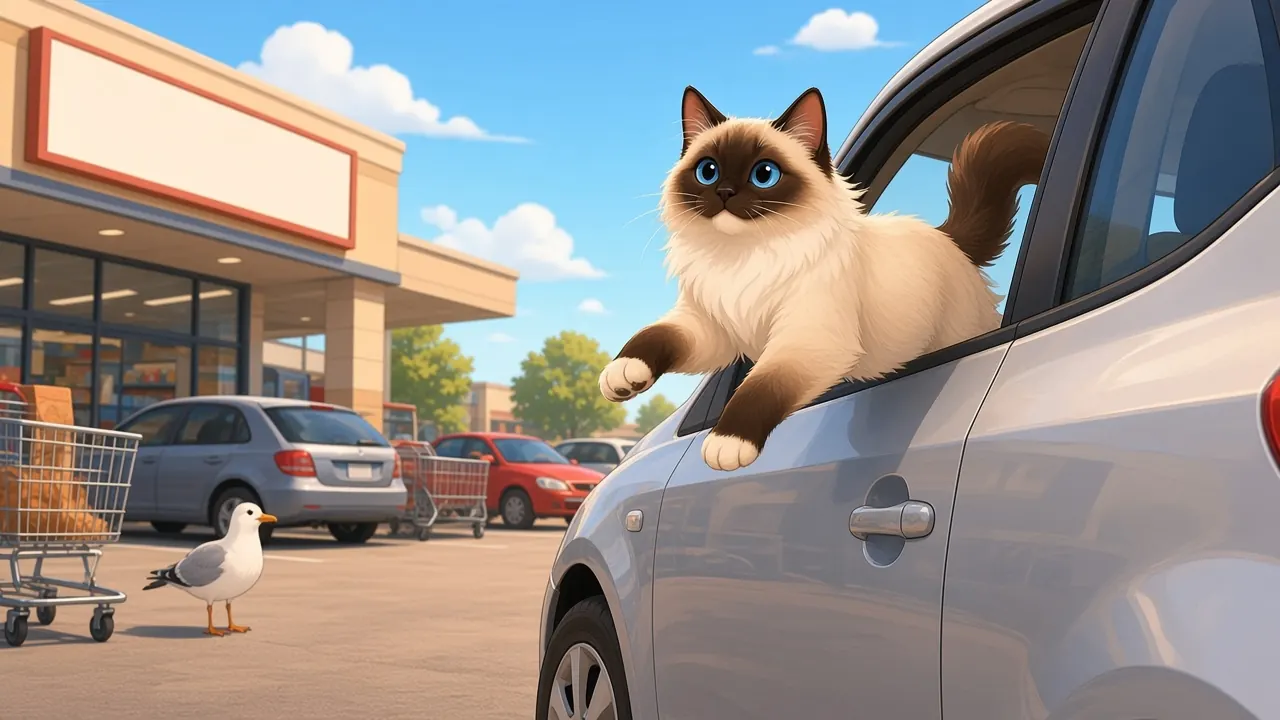
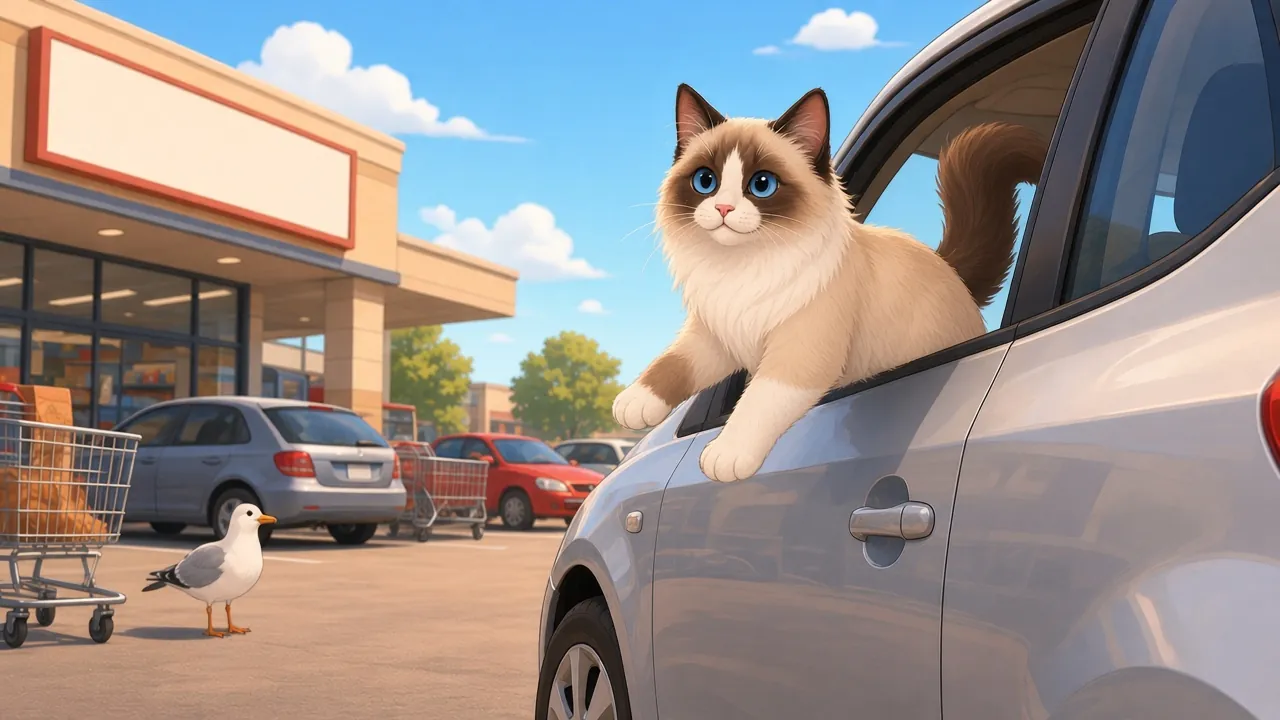
v17b: Paddy repainted as a chocolate MITTED Ragdoll (cream face + brown eye mask, white blaze/muzzle/bib/mitts) to match s4.png — new key art, character sheet, story panels p1-p7 and reunion; title framing tuned for new art

diff --git a/story.js b/story.js
@@ -2,7 +2,7 @@
 (function(){
 const V=(typeof VER!=='undefined'?VER:'1');
 const FONTS="'Bangers','Luckiest Guy',Impact,'Arial Black',sans-serif";
-const SRC=n=>'assets/story/'+n+'.webp?v='+V;
+const SRC=n=>'assets/story/'+n+'.webp?v='+V+'p2';
 // panels: image, caption, Ken Burns focus (fx,fy) and zoom from->to, pan direction
 const INTRO=[
  {img:'p1_asleep',cap:'Stanmore Bay. Early morning. Paddy is curled up in the car, fast asleep… zzz.',fx:.72,fy:.62,z0:1.22,z1:1.04},
@@ -126,8 +126,8 @@ addEventListener('keydown',e=>{if(S.mode==='off'||document.body.classList.contai
  if(S.mode==='title'){if(e.key==='Enter'||e.key===' '){e.preventDefault();e.stopImmediatePropagation();document.getElementById('splay').click()}return}
  e.preventDefault();e.stopImmediatePropagation();if(e.key==='Escape')close();else if(S.mode==='end')close();else next()},true);
 // ---- title layout: Paddy's whole face stays visible; logo + buttons go in the clear sky/sea space beside (or above/below) him ----
-const PAD={x0:.50,x1:.95,y0:.12,y1:.82}; // Paddy's box inside key_art (fractions)
-const TOPT=z=>W>=H?{fx:.70,fy:.10,ax:.74,ay:0,visH:.78,visW:1,right:1,z}:{fx:.70,fy:.45,ax:.5,visW:.6,visH:1,cy:.5,z};
+const PAD={x0:.59,x1:.94,y0:.16,y1:.76}; // Paddy's box inside key_art (fractions)
+const TOPT=z=>W>=H?{fx:.77,fy:.10,ax:.74,ay:0,visH:.78,visW:1,right:1,z}:{fx:.76,fy:.45,ax:.5,visW:.6,visH:1,cy:.5,z};
 function layout(r){const bt=root.querySelector('#sbtns'),port=W<H;if(!r)r={x:0,y:0,dw:W,dh:H};
  const px0=r.x+PAD.x0*r.dw,py0=r.y+PAD.y0*r.dh,py1=r.y+PAD.y1*r.dh,t=SA.t+Math.max(8,H*.03),b=H-SA.b-Math.max(8,H*.03);
  let cx,cw,top,bot;

diff --git a/index.html b/index.html
@@ -201,4 +201,4 @@ addEventListener('keydown',e=>{if(e.key==='?'||e.key==='/'){ov(!document.body.cl
 lbl.style.pointerEvents='auto';lbl.addEventListener('pointerdown',()=>ov(true));
 </script>
 <script src="en.js?v=16b"></script>
-<script src="story.js?v=17a"></script></body></html>
+<script src="story.js?v=17b"></script></body></html>
